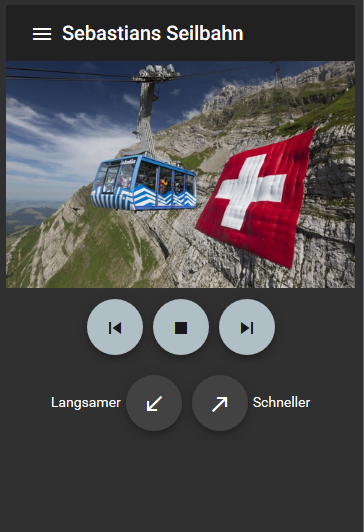
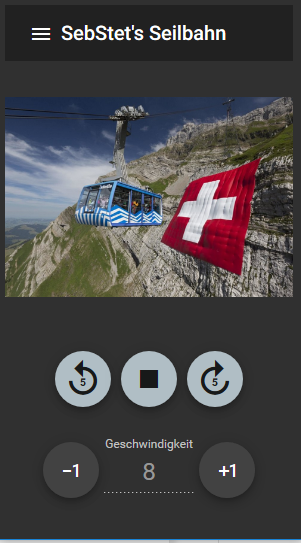
StatusPolling added

diff --git a/frontend-app/dist/frontend-app/main.js b/frontend-app/dist/frontend-app/main.js
@@ -170,13 +170,18 @@ __webpack_require__.r(__webpack_exports__);
 /* harmony import */ var tslib__WEBPACK_IMPORTED_MODULE_0__ = __webpack_require__(/*! tslib */ "./node_modules/tslib/tslib.es6.js");
 /* harmony import */ var _angular_core__WEBPACK_IMPORTED_MODULE_1__ = __webpack_require__(/*! @angular/core */ "./node_modules/@angular/core/fesm5/core.js");
 /* harmony import */ var _angular_common_http__WEBPACK_IMPORTED_MODULE_2__ = __webpack_require__(/*! @angular/common/http */ "./node_modules/@angular/common/fesm5/http.js");
+/* harmony import */ var rxjs__WEBPACK_IMPORTED_MODULE_3__ = __webpack_require__(/*! rxjs */ "./node_modules/rxjs/_esm5/index.js");
+
 
 
 
 var CablewayComponent = /** @class */ (function () {
     function CablewayComponent(http) {
+        var _this = this;
         this.http = http;
         this.speed = '?';
+        var statusPoller = Object(rxjs__WEBPACK_IMPORTED_MODULE_3__["timer"])(500, 1000);
+        statusPoller.subscribe(function (t) { return _this.getStatus(); });
     }
     CablewayComponent.prototype.ngOnInit = function () {
     };
@@ -190,10 +195,18 @@ var CablewayComponent = /** @class */ (function () {
         this.http.get('stop').subscribe();
     };
     CablewayComponent.prototype.onFaster = function () {
-        this.http.get('faster').subscribe();
+        var _this = this;
+        this.http.get('faster').subscribe(function (data) { return null; }, function (error) { return _this.speed = '?'; });
+        this.getStatus();
     };
     CablewayComponent.prototype.onSlower = function () {
-        this.http.get('slower').subscribe();
+        var _this = this;
+        this.http.get('slower').subscribe(function (data) { return null; }, function (error) { return _this.speed = '?'; });
+        this.getStatus();
+    };
+    CablewayComponent.prototype.getStatus = function () {
+        var _this = this;
+        this.http.get('status').subscribe(function (data) { return _this.speed = data['speed']; }, function (error) { return _this.speed = '?'; });
     };
     CablewayComponent = tslib__WEBPACK_IMPORTED_MODULE_0__["__decorate"]([
         Object(_angular_core__WEBPACK_IMPORTED_MODULE_1__["Component"])({

diff --git a/frontend-app/src/app/cableway/cableway.component.ts b/frontend-app/src/app/cableway/cableway.component.ts
@@ -1,18 +1,20 @@
 import { Component, OnInit } from '@angular/core';
 import { HttpClient } from '@angular/common/http';
-
+import { timer } from 'rxjs';
 
 @Component({
   selector: 'app-cableway',
   templateUrl: './cableway.component.html',
   styleUrls: ['./cableway.component.css']
 })
+
 export class CablewayComponent implements OnInit {
 
   speed = '?';
 
   constructor(private http: HttpClient) {
-
+    const statusPoller = timer(500, 1000);
+    statusPoller.subscribe( t => this.getStatus());
   }
 
   ngOnInit() {
@@ -31,10 +33,22 @@ export class CablewayComponent implements OnInit {
   }
 
   onFaster(): void {
-    this.http.get('faster').subscribe();
+    this.http.get('faster').subscribe(
+      data => null,
+      error => this.speed = '?');
+    this.getStatus();
   }
 
   onSlower(): void {
-    this.http.get('slower').subscribe();
+    this.http.get('slower').subscribe(
+      data => null,
+      error => this.speed = '?');
+    this.getStatus();
+  }
+
+  getStatus() : void {
+    this.http.get('status').subscribe(
+      data => this.speed = data['speed'],
+      error => this.speed = '?');
   }
 }

diff --git a/frontend-app/dist/frontend-app/index.html b/frontend-app/dist/frontend-app/index.html
@@ -2,7 +2,7 @@
 <html lang="en">
 <head>
   <meta charset="utf-8">
-  <title>Sebastians Seilbahn</title>
+  <title>SebStet's Seilbahn</title>
   <base href="/">
 
   <meta name="viewport" content="width=device-width, initial-scale=1">
